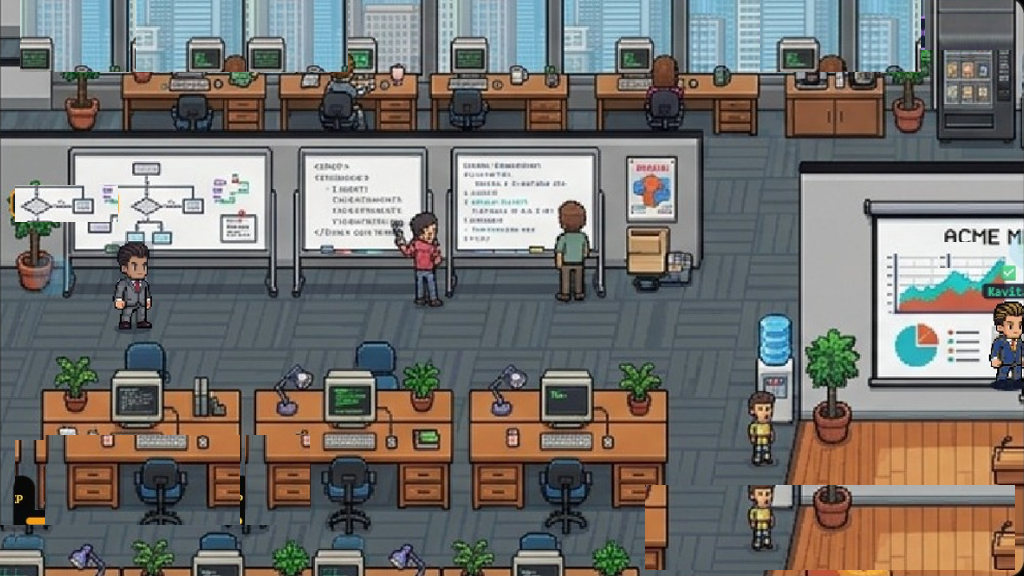
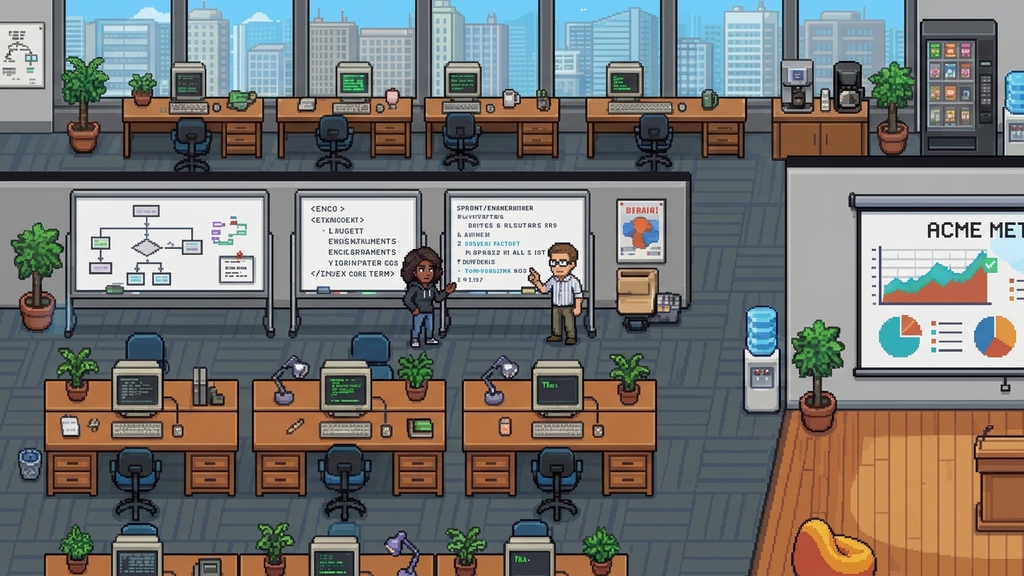
Replicate Big Workplace with clean 16-bit pixel art without cutouts or glitch artifacts

diff --git a/main.js b/main.js
@@ -182,7 +182,7 @@ registerAsset('npc_nehaBack', 'assets/npc_neha_back.png?v=12');
 // Cafeteria & Lounge Assets
 registerAsset('cafeteriaRoom', 'assets/cafeteria_room.png');
 registerAsset('cafeteriaDoor', 'assets/cafeteria_door.png');
-registerAsset('bigWorkplace', 'assets/big_workplace.png?v=35');
+registerAsset('bigWorkplace', 'assets/big_workplace.png?v=36');
 
 // ==========================================
 // GAME STATE & CONSTANTS
@@ -803,35 +803,7 @@ const SCENES = {
     playerWidth: 42,
     playerHeight: 90,
     spawn: { x: 80, y: 380, dir: 'right' },
-    foregroundProps: [
-      {
-        id: 'comp_pod1',
-        img: () => assets.fgComputerCrtMonitor,
-        x: 105,
-        y: 365,
-        w: 55,
-        h: 62,
-        sortY: 427
-      },
-      {
-        id: 'comp_pod2',
-        img: () => assets.fgComputerCrtMonitor,
-        x: 309,
-        y: 365,
-        w: 55,
-        h: 62,
-        sortY: 427
-      },
-      {
-        id: 'comp_pod3',
-        img: () => assets.fgComputerCrtMonitor,
-        x: 513,
-        y: 365,
-        w: 55,
-        h: 62,
-        sortY: 427
-      }
-    ],
+    foregroundProps: [],
     obstacles: [
       // Top panoramic glass window wall & back developer desks barrier
       { x: 0, y: 0, w: CANVAS_WIDTH, h: 140, label: 'Panoramic Windows & Back Desks' },
@@ -844,12 +816,12 @@ const SCENES = {
       { x: 1008, y: 0, w: 16, h: CANVAS_HEIGHT, label: 'Right Wall' },
 
       // Central Rolling Whiteboards Partition
-      { x: 60, y: 140, w: 580, h: 125, label: 'Whiteboards & Architecture Partition' },
+      { x: 60, y: 195, w: 600, h: 110, label: 'Whiteboards & Architecture Partition' },
 
       // Foreground Developer Workstation Pods
-      { x: 40, y: 440, w: 195, h: 80, label: 'Dev Pod 1 (Frontend & Systems)' },
-      { x: 245, y: 440, w: 195, h: 80, label: 'Dev Pod 2 (Core AI & Engine)' },
-      { x: 450, y: 440, w: 195, h: 80, label: 'Dev Pod 3 (Telemetry & Cloud)' },
+      { x: 45, y: 395, w: 185, h: 90, label: 'Dev Pod 1 (Frontend & Systems)' },
+      { x: 245, y: 395, w: 185, h: 90, label: 'Dev Pod 2 (Core AI & Engine)' },
+      { x: 450, y: 395, w: 185, h: 90, label: 'Dev Pod 3 (Telemetry & Cloud)' },
 
       // Break Counter & Credenza
       { x: 745, y: 70, w: 165, h: 75, label: 'Coffee Credenza' },
@@ -858,8 +830,8 @@ const SCENES = {
 
       // Right Raised Stage Presentation Area
       { x: 775, y: 200, w: 240, h: 120, label: 'Stage Keynote Screen' },
-      { x: 720, y: 350, w: 40, h: 65, label: 'Water Cooler' },
-      { x: 925, y: 470, w: 65, h: 70, label: 'Stage Lectern' }
+      { x: 735, y: 310, w: 45, h: 65, label: 'Water Cooler' },
+      { x: 935, y: 430, w: 75, h: 80, label: 'Stage Lectern' }
     ],
 
     triggers: [
@@ -944,16 +916,16 @@ const SCENES = {
       // 7. Water Cooler Station
       {
         id: 'water_cooler',
-        x: 710, y: 345, w: 55, h: 80,
+        x: 725, y: 300, w: 65, h: 80,
         prompt: '💧 Hydrate at Water Cooler [E]',
-        promptPos: { x: 735, y: 350 },
+        promptPos: { x: 755, y: 300 },
         action: () => {
           if (window.waterCoolerGame) {
             window.waterCoolerGame.open();
           } else {
             window.soundManager.playInteract();
             if (window.pixelEngine && window.pixelEngine.particles) {
-              window.pixelEngine.particles.spawnWaterSparkles(735, 360);
+              window.pixelEngine.particles.spawnWaterSparkles(755, 320);
             }
             showToast('💧 Refreshing ice-cold water! "Did you see that telemetry curve on stage? Incredible work!"');
           }
